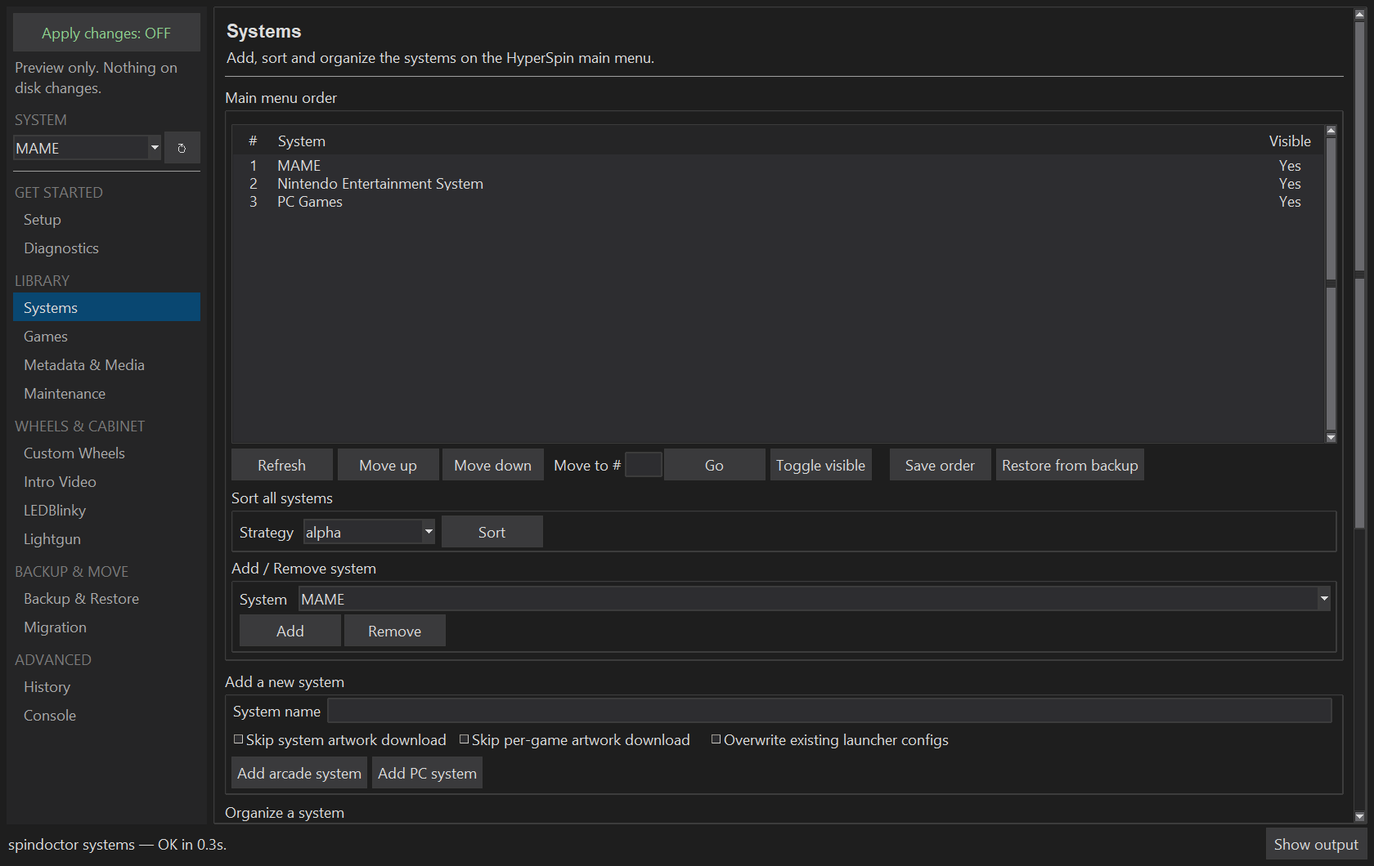
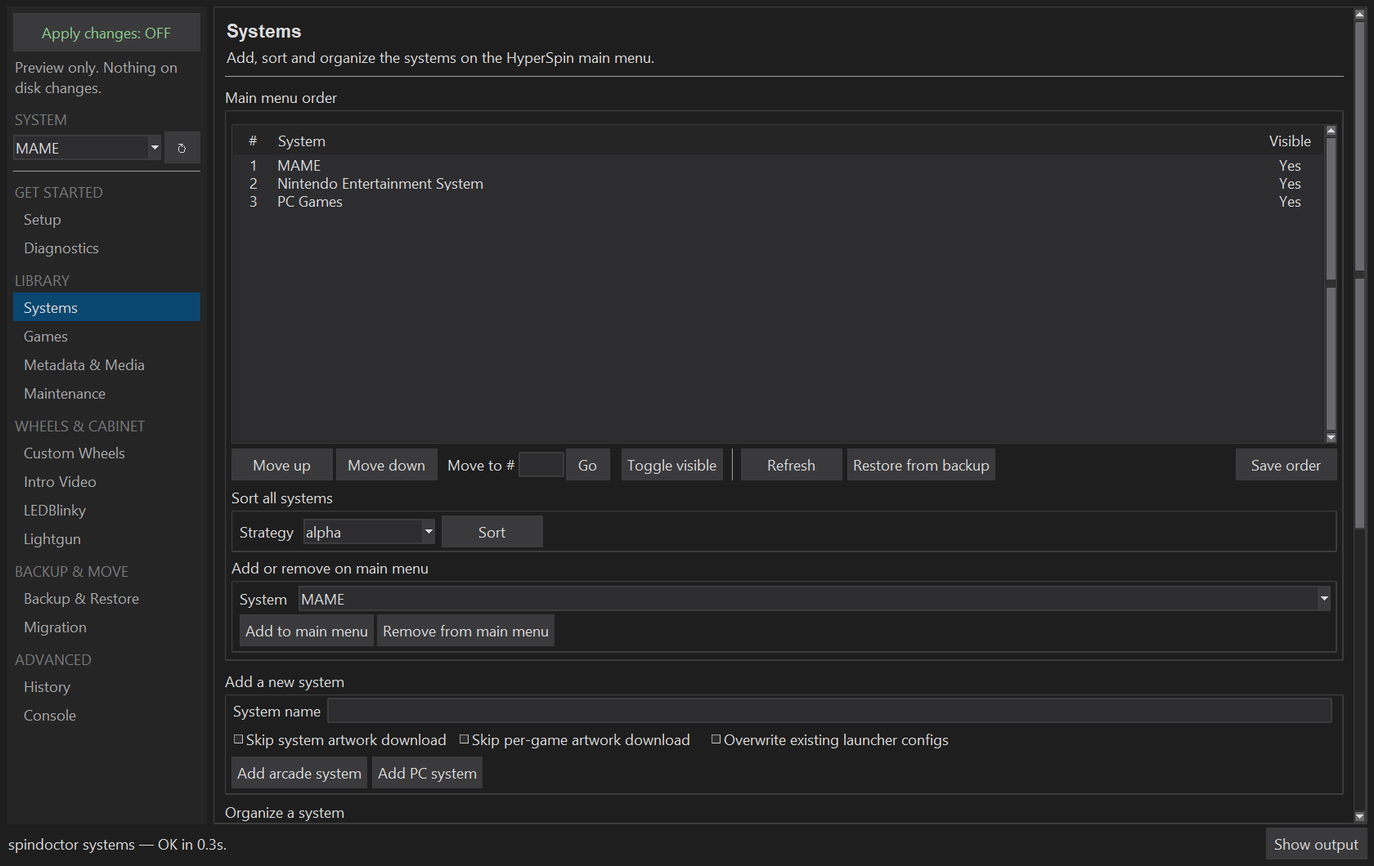
refactor(gui): share one reorder toolbar and tidy Systems and History labels
Systems and Games build their reorder controls with _reorder_toolbar:
Move up, Move down, Move to # (Games' "Jump to #" renamed, Enter works)
and Go on the left, Save order alone on the right. Systems' Restore from
backup moves behind a separator, away from Save order. "Add / Remove
system" becomes "Add or remove on main menu" with explicit button labels.
History's intro shrinks to one line, its buttons become Copy selected and
Save selected, and the redundant Refresh button goes (the tree already
re-renders on every run start and finish). Fix stale LEDBlinky button
names in the docs.

diff --git a/spindoctor/gui.py b/spindoctor/gui.py
@@ -2301,6 +2301,27 @@ class _SpinDoctorGUI:
         )
         return label
 
+    def _reorder_toolbar(self, row, move_up, move_down, move_to, *, save):
+        """Fill *row* with the shared reorder controls of a table.
+
+        Left: ``Move up | Move down | Move to # [ ] Go``. Right: ``Save
+        order``, so the commit button is in the same place on every
+        reorderable table. Callers pack their row actions after this.
+        Returns the position entry's StringVar.
+        """
+        self.ttk.Button(row, text="Save order", command=save).pack(side="right")
+        self.ttk.Button(row, text="Move up", command=move_up).pack(side="left")
+        self.ttk.Button(row, text="Move down", command=move_down).pack(
+            side="left", padx=(4, 0),
+        )
+        goto = self.tk.StringVar(master=self.root)
+        self.ttk.Label(row, text="Move to #").pack(side="left", padx=(10, 2))
+        entry = self.ttk.Entry(row, textvariable=goto, width=5)
+        entry.pack(side="left", padx=(0, 2))
+        entry.bind("<Return>", lambda _e: move_to())
+        self.ttk.Button(row, text="Go", command=move_to, width=4).pack(side="left")
+        return goto
+
     def _sidebar_system_row(self, parent, var, *, all_var=None):
         """``System: MAME  (change it in the sidebar)`` for a section that follows the sidebar.
 
@@ -3030,19 +3051,15 @@ class _SpinDoctorGUI:
         """
         frame = self.ttk.Frame(parent, padding=4)
 
-        intro = self.ttk.Label(
+        # The page summary already says what this is; one line covers
+        # how to read it. Undo history is behind "Browse manifests / undo".
+        intro = self._responsive_label(
             frame,
-            text=("Every command run since the GUI was launched, newest "
-                  "first. Click a row to see its full output. "
-                  "DRY-RUN rows are previews (no --apply was passed); "
-                  "OK rows committed; FAIL rows exited non-zero. The "
-                  "buffer is in-memory only — restarting the GUI "
-                  "clears it. Manifest-based history (apply runs that "
-                  "wrote a JSON manifest under ~/.spindoctor/) lives in "
-                  "File → View logs & manifests"),
-            wraplength=900, justify="left", padding=(6, 4),
+            text=("Click a row to see its output. DRY-RUN = preview, "
+                  "OK = written, FAIL = error. Cleared when you close "
+                  "SpinDoctor."),
         )
-        intro.pack(fill="x")
+        intro.pack(fill="x", padx=6, pady=(4, 0))
 
         paned = self.ttk.PanedWindow(frame, orient="horizontal")
         paned.pack(fill="both", expand=True, padx=4, pady=4)
@@ -3106,15 +3123,14 @@ class _SpinDoctorGUI:
 
         btn_row = self.ttk.Frame(frame)
         btn_row.pack(fill="x", padx=4, pady=(0, 4))
+        # No Refresh button: the tree re-renders whenever a run starts
+        # or finishes (_refresh_logs_tab).
         self.ttk.Button(
-            btn_row, text="Refresh", command=self._refresh_logs_tab,
+            btn_row, text="Copy selected",
+            command=self._copy_selected_log,
         ).pack(side="left")
         self.ttk.Button(
-            btn_row, text="Copy selected output to clipboard",
-            command=self._copy_selected_log,
-        ).pack(side="left", padx=6)
-        self.ttk.Button(
-            btn_row, text="Save selected output",
+            btn_row, text="Save selected",
             command=self._save_selected_log,
         ).pack(side="left", padx=6)
         self.ttk.Button(
@@ -6895,50 +6911,35 @@ class _SpinDoctorGUI:
         self._gwm_tree.bind("<Alt-Up>",   lambda e: self._gwm_move_up())
         self._gwm_tree.bind("<Alt-Down>", lambda e: self._gwm_move_down())
 
-        # Reorder controls + sort buttons on one row to reduce visual noise.
+        # Same toolbar layout as Systems → Main menu order: row edits,
+        # then row actions on the left; Save order alone on the right.
         gwm_reorder_row = self.ttk.Frame(gwm_lf)
-        gwm_reorder_row.pack(anchor="w", padx=6, pady=(4, 2))
-        self.ttk.Button(
-            gwm_reorder_row, text="Move up",   command=self._gwm_move_up,
-        ).pack(side="left")
-        self.ttk.Button(
-            gwm_reorder_row, text="Move down", command=self._gwm_move_down,
-        ).pack(side="left", padx=(4, 0))
-        self._gwm_goto_var = self.tk.StringVar()
-        self.ttk.Label(gwm_reorder_row, text="Jump to #").pack(
-            side="left", padx=(10, 2),
+        gwm_reorder_row.pack(fill="x", padx=6, pady=(4, 2))
+        self._gwm_goto_var = self._reorder_toolbar(
+            gwm_reorder_row, self._gwm_move_up, self._gwm_move_down,
+            self._gwm_move_to_pos, save=self._gwm_save_order,
         )
-        self.ttk.Entry(
-            gwm_reorder_row, textvariable=self._gwm_goto_var, width=5,
-        ).pack(side="left", padx=(0, 2))
         self.ttk.Button(
-            gwm_reorder_row, text="Go", command=self._gwm_move_to_pos,
-        ).pack(side="left", padx=(0, 14))
-        self.ttk.Button(
-            gwm_reorder_row, text="Sort A→Z (by title)",
-            command=lambda: self._gwm_sort("description"),
-        ).pack(side="left", padx=(0, 4))
-        self.ttk.Button(
-            gwm_reorder_row, text="Sort A→Z (by ROM name)",
-            command=lambda: self._gwm_sort("name"),
-        ).pack(side="left")
-
-        # Remove + save on a separate row so destructive/commit buttons
-        # are visually separated from the reorder controls.
-        gwm_action_row = self.ttk.Frame(gwm_lf)
-        gwm_action_row.pack(anchor="w", padx=6, pady=(2, 8))
-        self.ttk.Button(
-            gwm_action_row, text="Remove game", command=self._gwm_remove,
-        ).pack(side="left")
+            gwm_reorder_row, text="Remove game", command=self._gwm_remove,
+        ).pack(side="left", padx=(14, 0))
         self._gwm_remove_pclauncher_var = self.tk.BooleanVar(value=False)
         self.ttk.Checkbutton(
-            gwm_action_row,
+            gwm_reorder_row,
             text="Also remove PCLauncher INI (PC systems only)",
             variable=self._gwm_remove_pclauncher_var,
-        ).pack(side="left", padx=(6, 16))
+        ).pack(side="left", padx=(6, 0))
+
+        # Whole-list reorders on their own row.
+        gwm_sort_row = self.ttk.Frame(gwm_lf)
+        gwm_sort_row.pack(fill="x", padx=6, pady=(2, 8))
         self.ttk.Button(
-            gwm_action_row, text="Save order", command=self._gwm_save_order,
+            gwm_sort_row, text="Sort A→Z (by title)",
+            command=lambda: self._gwm_sort("description"),
         ).pack(side="left")
+        self.ttk.Button(
+            gwm_sort_row, text="Sort A→Z (by ROM name)",
+            command=lambda: self._gwm_sort("name"),
+        ).pack(side="left", padx=(4, 0))
 
         # ── Step 2 — Rename or clone a game ──────────────────────────────────
         rc_lf = self.ttk.LabelFrame(frame, text="Rename or clone a game")
@@ -10184,35 +10185,26 @@ class _SpinDoctorGUI:
         self._mm_tree.bind("<Alt-Down>", lambda e: self._mm_move_down())
 
         # Table action buttons
+        # Same toolbar layout as the Games table: row edits, then row
+        # actions on the left; Save order alone on the right. Restore is
+        # a recovery action, so it sits apart from Save order.
         tbl_btn_row = self.ttk.Frame(mm_lf)
-        tbl_btn_row.grid(row=2, column=0, columnspan=2, sticky="w", padx=6, pady=(2, 8))
+        tbl_btn_row.grid(row=2, column=0, columnspan=2, sticky="ew", padx=6, pady=(2, 8))
+        self._mm_goto_var = self._reorder_toolbar(
+            tbl_btn_row, self._mm_move_up, self._mm_move_down,
+            self._mm_move_to_pos, save=self._mm_save_order,
+        )
+        self.ttk.Button(
+            tbl_btn_row, text="Toggle visible",
+            command=self._mm_toggle_visible,
+        ).pack(side="left", padx=(14, 0))
+        self.ttk.Separator(tbl_btn_row, orient="vertical").pack(
+            side="left", fill="y", padx=10,
+        )
         self.ttk.Button(
             tbl_btn_row, text="Refresh",
             command=self._mm_refresh,
         ).pack(side="left")
-        self.ttk.Button(
-            tbl_btn_row, text="Move up",
-            command=self._mm_move_up,
-        ).pack(side="left", padx=(6, 2))
-        self.ttk.Button(
-            tbl_btn_row, text="Move down",
-            command=self._mm_move_down,
-        ).pack(side="left", padx=2)
-        self._mm_goto_var = self.tk.StringVar()
-        self.ttk.Label(tbl_btn_row, text="Move to #").pack(side="left", padx=(8, 2))
-        self.ttk.Entry(tbl_btn_row, textvariable=self._mm_goto_var, width=4).pack(side="left")
-        self.ttk.Button(
-            tbl_btn_row, text="Go",
-            command=self._mm_move_to_pos,
-        ).pack(side="left", padx=(2, 0))
-        self.ttk.Button(
-            tbl_btn_row, text="Toggle visible",
-            command=self._mm_toggle_visible,
-        ).pack(side="left", padx=(6, 2))
-        self.ttk.Button(
-            tbl_btn_row, text="Save order",
-            command=self._mm_save_order,
-        ).pack(side="left", padx=(20, 0))
         self.ttk.Button(
             tbl_btn_row, text="Restore from backup",
             command=self._mm_restore_from_backup,
@@ -10235,8 +10227,9 @@ class _SpinDoctorGUI:
             sort_frame, text="Sort", command=self._run_mainmenu_sort,
         ).grid(row=0, column=2, sticky="w", padx=4, pady=4)
 
-        # Add / Remove
-        mgmt_frame = self.ttk.LabelFrame(mm_lf, text="Add / Remove system")
+        # Add / remove an existing system on the main menu (not the same
+        # as "Add a new system" below, which creates one).
+        mgmt_frame = self.ttk.LabelFrame(mm_lf, text="Add or remove on main menu")
         mgmt_frame.grid(row=4, column=0, columnspan=2, sticky="ew", padx=6, pady=(0, 8))
         mgmt_frame.columnconfigure(1, weight=1)
 
@@ -10252,7 +10245,9 @@ class _SpinDoctorGUI:
 
         mgmt_btn_row = self.ttk.Frame(mgmt_frame)
         mgmt_btn_row.grid(row=1, column=0, columnspan=2, sticky="w", padx=6, pady=(0, 6))
-        for label, sub in (("Add", "add"), ("Remove", "remove")):
+        for label, sub in (
+            ("Add to main menu", "add"), ("Remove from main menu", "remove"),
+        ):
             self.ttk.Button(
                 mgmt_btn_row, text=label,
                 command=lambda s=sub: self._run_mainmenu_action(s),

diff --git a/tests/test_gui.py b/tests/test_gui.py
@@ -2940,6 +2940,50 @@ def test_games_list_loads_when_games_page_is_open(monkeypatch):
         app.root.destroy()
 
 
+def test_reorder_tables_share_toolbar_layout(monkeypatch):
+    app, _tk = _build_gui_for_test(monkeypatch)
+    try:
+        def toolbar(page):
+            # The row holding "Save order" on that page.
+            save = next(
+                w for w in _page_widgets(app, page)
+                if w.winfo_class() == "TButton" and w.cget("text") == "Save order"
+            )
+            row = save.master
+            left = [
+                w.cget("text") for w in row.pack_slaves()
+                if w.pack_info()["side"] == "left"
+                and w.winfo_class() in ("TButton", "TLabel")
+            ]
+            assert save.pack_info()["side"] == "right", page
+            return left
+
+        for page in ("Systems", "Games"):
+            assert toolbar(page)[:5] == [
+                "Move up", "Move down", "Move to #", "Go",
+                "Toggle visible" if page == "Systems" else "Remove game",
+            ], page
+        texts = {
+            w.cget("text") for w in _page_widgets(app, "Systems")
+            if w.winfo_class() in ("TButton", "TLabelframe")
+        }
+        assert {"Add or remove on main menu", "Add to main menu",
+                "Remove from main menu", "Add a new system"} <= texts
+        assert "Jump to #" not in {
+            w.cget("text") for w in _page_widgets(app, "Games")
+            if w.winfo_class() == "TLabel"
+        }
+
+        history = {
+            w.cget("text") for w in _page_widgets(app, "History")
+            if w.winfo_class() == "TButton"
+        }
+        assert {"Copy selected", "Save selected"} <= history
+        assert "Refresh" not in history
+    finally:
+        app.root.destroy()
+
+
 def test_repeated_controls_appear_once(monkeypatch):
     app, _tk = _build_gui_for_test(monkeypatch)
     try:

diff --git a/docs/gui.md b/docs/gui.md
@@ -118,7 +118,7 @@ Manage the systems that HyperSpin exposes. Three numbered steps cover the common
 
 **Main menu order:** Reorder, show/hide, sort, add, or remove the systems on HyperSpin's top-level wheel (`Main Menu.xml`). The tab renders the current file as a scrollable, selectable table (Treeview) with columns for position, system name, and visibility.
 
-Select any row, then reposition it with one of three methods: click **Move up** / **Move down**, press **Alt+Up** / **Alt+Down** to nudge without leaving the keyboard, or type a target position in the **Move to #** field and click **Go** to jump directly in a single action. Click **Toggle visible** to flip its enabled flag. **Save order** asks for confirmation before writing the full reordered list back to `Main Menu.xml`; on completion a History tab entry records the target file, the outcome, and an exit code. A **Refresh** button reloads the live file. Sort, Add, and Remove remain as separate controls below the table. CLI equivalent: `spindoctor mainmenu *`.
+Select any row, then reposition it with one of three methods: click **Move up** / **Move down**, press **Alt+Up** / **Alt+Down** to nudge without leaving the keyboard, or type a target position in the **Move to #** field and click **Go** to jump directly in a single action. Click **Toggle visible** to flip its enabled flag. **Save order** asks for confirmation before writing the full reordered list back to `Main Menu.xml`; on completion a History tab entry records the target file, the outcome, and an exit code. Both reorderable tables (this one and Games → Manage the game wheel) share one toolbar layout: row edits on the left, **Save order** alone on the right. After a vertical separator, **Refresh** reloads the live file and **Restore from backup** rolls back to an earlier `Main Menu.xml`. **Sort all systems** and **Add or remove on main menu** sit below the table. **Add or remove on main menu** (**Add to main menu** / **Remove from main menu**) puts an existing system on HyperSpin's main menu or takes it off; to create a brand-new system, use **Add a new system** below. CLI equivalent: `spindoctor mainmenu *`.
 
 If `Main Menu.xml` can't be parsed (file open in HyperHQ, malformed XML, truncated mid-write) the tab pops a modal naming the file path and the parse error, and clears the table so you don't see stale rows from the previous successful load. Fix the file and click Refresh to retry.
 
@@ -142,7 +142,7 @@ Manage individual games across any system. The sidebar's **System** picker drive
 
 **Manage the game wheel:** When you open the page, or pick a system in the sidebar while it's open, a scrollable table loads every game in that system's XML database in wheel order — position number, ROM name, and display title.
 
-Reposition games with one of three methods: click **Move up** / **Move down**, press **Alt+↑** / **Alt+↓** to nudge without leaving the keyboard, or type a target position in the **Jump to #** field and click **Go** to jump directly. **Sort A→Z (by title)** sorts by display name with leading articles stripped (The / A / An), matching HyperSpin's own wheel sort convention; **Sort A→Z (by ROM name)** sorts by filename. **Remove game** shows a dry-run message when Apply is off; with Apply ticked it confirms and shells out to `game remove --apply` (the table row is removed only after the command reports success). Tick **Also remove PCLauncher INI (PC systems only)** to also delete `Modules/PCLauncher/<system>/<game>.ini` — use this for PC systems so RocketLauncher no longer finds the game; the checkbox is a no-op for systems that have no PCLauncher INI. **Save order** writes the full reordered list back to the system XML — dry-run preview when Apply is off, background-thread save when Apply is on. Changing the system picker clears the table so a loaded game list can't accidentally be saved to the wrong database. CLI: `spindoctor game list / remove / move / move-up / move-down / sort`.
+Reposition games with one of three methods: click **Move up** / **Move down**, press **Alt+↑** / **Alt+↓** to nudge without leaving the keyboard, or type a target position in the **Move to #** field and click **Go** (or press Enter) to jump directly. **Save order** is at the right end of the same row, as on the Systems table. **Sort A→Z (by title)** sorts by display name with leading articles stripped (The / A / An), matching HyperSpin's own wheel sort convention; **Sort A→Z (by ROM name)** sorts by filename. **Remove game** shows a dry-run message when Apply is off; with Apply ticked it confirms and shells out to `game remove --apply` (the table row is removed only after the command reports success). Tick **Also remove PCLauncher INI (PC systems only)** to also delete `Modules/PCLauncher/<system>/<game>.ini` — use this for PC systems so RocketLauncher no longer finds the game; the checkbox is a no-op for systems that have no PCLauncher INI. **Save order** writes the full reordered list back to the system XML — dry-run preview when Apply is off, background-thread save when Apply is on. Changing the system picker clears the table so a loaded game list can't accidentally be saved to the wrong database. CLI: `spindoctor game list / remove / move / move-up / move-down / sort`.
 
 **Rename or clone a game:** Rename moves the ROM file, database entry, and every media file in one operation and writes an undo manifest so the change is reversible. Clone duplicates everything under a new name — useful for keeping a speed-hack alongside the clean dump or creating a multi-language variant. Both are dry-run until you tick Apply. The **Game** dropdown auto-populates from the selected system's database; click **↻** to refresh after a database change. CLI: `spindoctor rename / clone`.
 
@@ -259,11 +259,11 @@ Configure LEDBlinky's animation behaviour. Run once after installing, then only 
 
 **MAME controls and colors**
 
-These steps build MAME-sourced LED data using `mame -listxml`. Use **▶ Run Full MAME Setup (3a + 3c)** for a single-click workflow, or run individual steps below. Generate works on the games in your wheels, not every ROM on disk, so re-run it after adding MAME games to a wheel. Existing entries are preserved unless Overwrite is ticked.
+These steps build MAME-sourced LED data using `mame -listxml`. Use **Run full MAME setup** for a single-click workflow, or run individual steps below. Generate works on the games in your wheels, not every ROM on disk, so re-run it after adding MAME games to a wheel. Existing entries are preserved unless Overwrite is ticked.
 
-- **▶ Run Full MAME Setup (3a + 3c)** — chains Generate + Sync player colors in one step. CLI: `spindoctor ledblinky setup --apply`.
+- **Run full MAME setup** — chains Generate + Sync player colors in one step. CLI: `spindoctor ledblinky setup --apply`.
 - **Generate controls and colors** — adds `controls.ini` + `Colors.ini` entries for the games in every wheel that uses MAME ROM names (MAME in the wheel's name, or MAME / HBMAME / Zinc as its emulator) and their parent ROMs, only where an entry is missing. A missing entry is copied back from SpinDoctor's LEDBlinky library when it's there (see **Prune** below), else built from MAME's `-listxml`. Existing entries are never changed. Dry-run by default; tick **Overwrite existing entries — 3a Generate** to replace existing entries. Since 2.4.21, output uses native `P1_BUTTON1=` format (not legacy hex). CLI: `spindoctor ledblinky generate`.
-- **Every MAME ROM file, not just wheel games** — makes Run Full MAME Setup, 3a and Audit work from every ROM file in the MAME folder instead, as they did before, plus every entry in SpinDoctor's library. Entries pruned earlier all come back, exactly as they were. LEDBlinky loads every entry when it starts, so leave this off unless you want them all.
+- **Every MAME ROM file, not just wheel games** — makes Run full MAME setup, Generate and Audit work from every ROM file in the MAME folder instead, as they did before, plus every entry in SpinDoctor's library. Entries pruned earlier all come back, exactly as they were. LEDBlinky loads every entry when it starts, so leave this off unless you want them all.
 - **Normalize Colors.ini** — only needed for a legacy Colors.ini in hex format (`ledcolor1=FF0000`). Not required after a fresh Generate. CLI: `spindoctor ledblinky colors normalize`.
 - **Sync player colors** — adds missing P2/P3/P4+ entries to `Colors.ini` by mirroring the matching P1 color for each button listed in `controls.ini`. Never overwrites existing entries (use `--override` via Custom Command to replace them). CLI: `spindoctor ledblinky colors sync-players`.
 - **Audit wheel coverage** — for every game in those wheels (and their parents): which have entries, which are missing but can be added (from the library or `-listxml`), and which have no data anywhere. It also counts the entries for games in no wheel. Read-only. CLI: `spindoctor ledblinky audit`.
@@ -374,7 +374,7 @@ Ticking **Apply** pops a confirmation dialog before running — the wording adap
 
 ![History tab, shown with a sample cabinet](screenshots/13-history.png)
 
-Persistent timeline of every action taken since the GUI was launched, newest first. Tree on the left (Status / Started / Command); read-only viewer on the right showing the full output of the selected row. Each row tags as `DRY-RUN`, `OK`, `FAIL <code>`, or `running`. The viewer header shows `# Dry-run: Yes` (preview), `# Dry-run: No` (wrote to disk), or `# Dry-run: N/A` (read-only or write-always command where the concept does not apply). **Save selected output** exports the selected entry to a `.txt` file and appends its own log entry recording the saved path.
+Persistent timeline of every action taken since the GUI was launched, newest first. Tree on the left (Status / Started / Command); read-only viewer on the right showing the full output of the selected row. Each row tags as `DRY-RUN`, `OK`, `FAIL <code>`, or `running`. The viewer header shows `# Dry-run: Yes` (preview), `# Dry-run: No` (wrote to disk), or `# Dry-run: N/A` (read-only or write-always command where the concept does not apply). **Copy selected** copies the selected entry's output; **Save selected** exports it to a `.txt` file and appends its own log entry recording the saved path.
 
 The History tab captures both CLI subprocess invocations *and* in-process GUI operations that write data: Save configuration, Save Main Menu order, Theme-apply Apply, Curate Apply, Ignore viewer Remove, and the three Task Scheduler actions (Schedule / Remove / Check status). Everything that changes state on disk appears here.
 
@@ -387,7 +387,7 @@ notice appears. Saved and automatically saved logs contain this retained tail
 and the notice, not the full original stream. Run the CLI directly and redirect
 its output to a file when you need a complete verbose log.
 
-A **Browse manifests / undo** button next to Refresh/Copy/Clear (separated by a vertical Separator) signposts the menu's "Logs & Manifests" viewer for new users who land on the History tab first.
+The tree updates by itself whenever a run starts or finishes. A **Browse manifests / undo** button next to Copy, Save and Clear (separated by a vertical Separator) signposts the menu's "Logs & Manifests" viewer for new users who land on the History tab first.
 
 ### Console
 

diff --git a/CHANGELOG.md b/CHANGELOG.md
@@ -16,6 +16,7 @@ The format follows [Keep a Changelog](https://keepachangelog.com/en/1.1.0/), and
 - **GUI pages move to a grouped sidebar.** The 14 tabs across the top are replaced by a page list on the left, grouped as Get started, Library, Wheels & cabinet, Safety and Advanced. Page order, Ctrl+1 to Ctrl+9 and the remembered last page are unchanged. **Apply**, **Verbose** and **Save Log** move from the bottom status bar to the top of the sidebar; Apply is now a large **Apply changes: OFF / ON** switch that turns orange while changes will be written.
 - **Plainer GUI labels.** Section titles no longer carry "Step N" numbers except in Migration and the first-run wizard, where the order matters. Buttons use sentence case, symbol prefixes (▶, ✈) and CLI flags (`--all-roms`, `--overwrite-pclauncher`, `--include-proto`) are gone from labels, and LEDBlinky's MAME buttons drop their 3a/3b/3c prefixes.
 - **One System picker for the whole GUI, and fewer repeated buttons.** A **System** dropdown in the sidebar selects that system in every section; section dropdowns can still pick a different one. The Games page uses it instead of its own picker. **Run Health Check** now lives only on Diagnostics (removed from Setup and Migration), Metadata & Media has one **Restore DB backup** button, LEDBlinky has one **Normalize Colors.ini** button (in the MAME section), and Migration's backup step links to the Backup & Restore page instead of repeating its controls.
+- **Consistent table toolbars and clearer labels.** The Systems and Games reorder tables share one toolbar: **Move up**, **Move down**, **Move to #** (renamed from Games' "Jump to #"; Enter also works) and the row actions on the left, and **Save order** alone on the right. Systems' **Restore from backup** moves away from Save order. Systems' "Add / Remove system" box becomes **Add or remove on main menu**, with **Add to main menu** / **Remove from main menu** buttons, so it isn't confused with **Add a new system**. The History page's intro is one line, its buttons are **Copy selected** and **Save selected**, and its Refresh button is gone because the list already updates after every run.
 - **Fewer repeated System dropdowns.** Diagnostics (Audit, Verify and Inspect), Metadata & Media and Maintenance's region-variant cleanup drop their own System dropdowns and show the sidebar system instead, as Games already did. Metadata & Media and the cleanup keep **All systems**, and the label reads "All systems" while it's checked. Diagnostics' **Reload list** button is replaced by a **↻** button next to the sidebar System dropdown, and its folder buttons are shortened to **Open Media folder** and **Open ROMs folder**.
 - **The Games list loads on its own.** The game-wheel table loads when you open the Games page, or when you change the sidebar system while it's open, so **Load games** is gone. A small **↻** button reloads it from disk.
 - **Less crowded sidebar.** **Verbose output**, **Save log file** and **Show help text** move from the top of the sidebar to the **View** menu. While Verbose or Save log is on, a reminder under the Apply switch says so. The **Safety** group is renamed **Backup & move**, and **History** now comes before **Console** in the Advanced group. A remembered last page of Console or History opens the other one once after upgrading.

diff --git a/docs/commands.md b/docs/commands.md
@@ -416,7 +416,7 @@ Sorts all games in the wheel alphabetically. Leading articles (The, A, An) are i
 `--by description` (default) — sort by display title (`<description>` field).  
 `--by name` — sort by ROM filename instead.
 
-> **GUI alternative:** the **Games** tab → **Manage the game wheel** provides an equivalent table: pick the system in the sidebar and the table loads, then reorder rows with **Move Up / Move Down** (or Alt+↑ / Alt+↓), or jump directly with **Jump to #**. **Remove game** prompts for confirmation and shells out to `game remove --apply`; tick **Also remove PCLauncher INI (PC systems only)** to include `--remove-pclauncher`. **Save order** shells out to `game save-order --apply` (dry-run unless Apply is ticked). See [GUI walkthrough](gui.md).
+> **GUI alternative:** the **Games** tab → **Manage the game wheel** provides an equivalent table: pick the system in the sidebar and the table loads, then reorder rows with **Move Up / Move Down** (or Alt+↑ / Alt+↓), or jump directly with **Move to #**. **Remove game** prompts for confirmation and shells out to `game remove --apply`; tick **Also remove PCLauncher INI (PC systems only)** to include `--remove-pclauncher`. **Save order** shells out to `game save-order --apply` (dry-run unless Apply is ticked). See [GUI walkthrough](gui.md).
 
 #### `game save-order`
 

diff --git a/docs/cli-cheatsheet.md b/docs/cli-cheatsheet.md
@@ -267,7 +267,7 @@ spindoctor game save-order --system MAME --order-file order.txt --apply :: write
 
 All write commands are dry-run without `--apply`. `--output-dir` writes outside the live HyperSpin tree.
 
-> **GUI:** Games tab → Step 1 (**Manage the game wheel**) — the sidebar's System picker, then Move Up/Down/Jump to #/Sort/Remove Game/Save Order controls. Tick **Also remove PCLauncher INI** when removing from a PC system.
+> **GUI:** Games tab → Step 1 (**Manage the game wheel**) — the sidebar's System picker, then Move up/Move down/Move to #/Remove game/Sort/Save order controls. Tick **Also remove PCLauncher INI** when removing from a PC system.
 
 Reference: [Command reference → game](commands.md#game).
 
